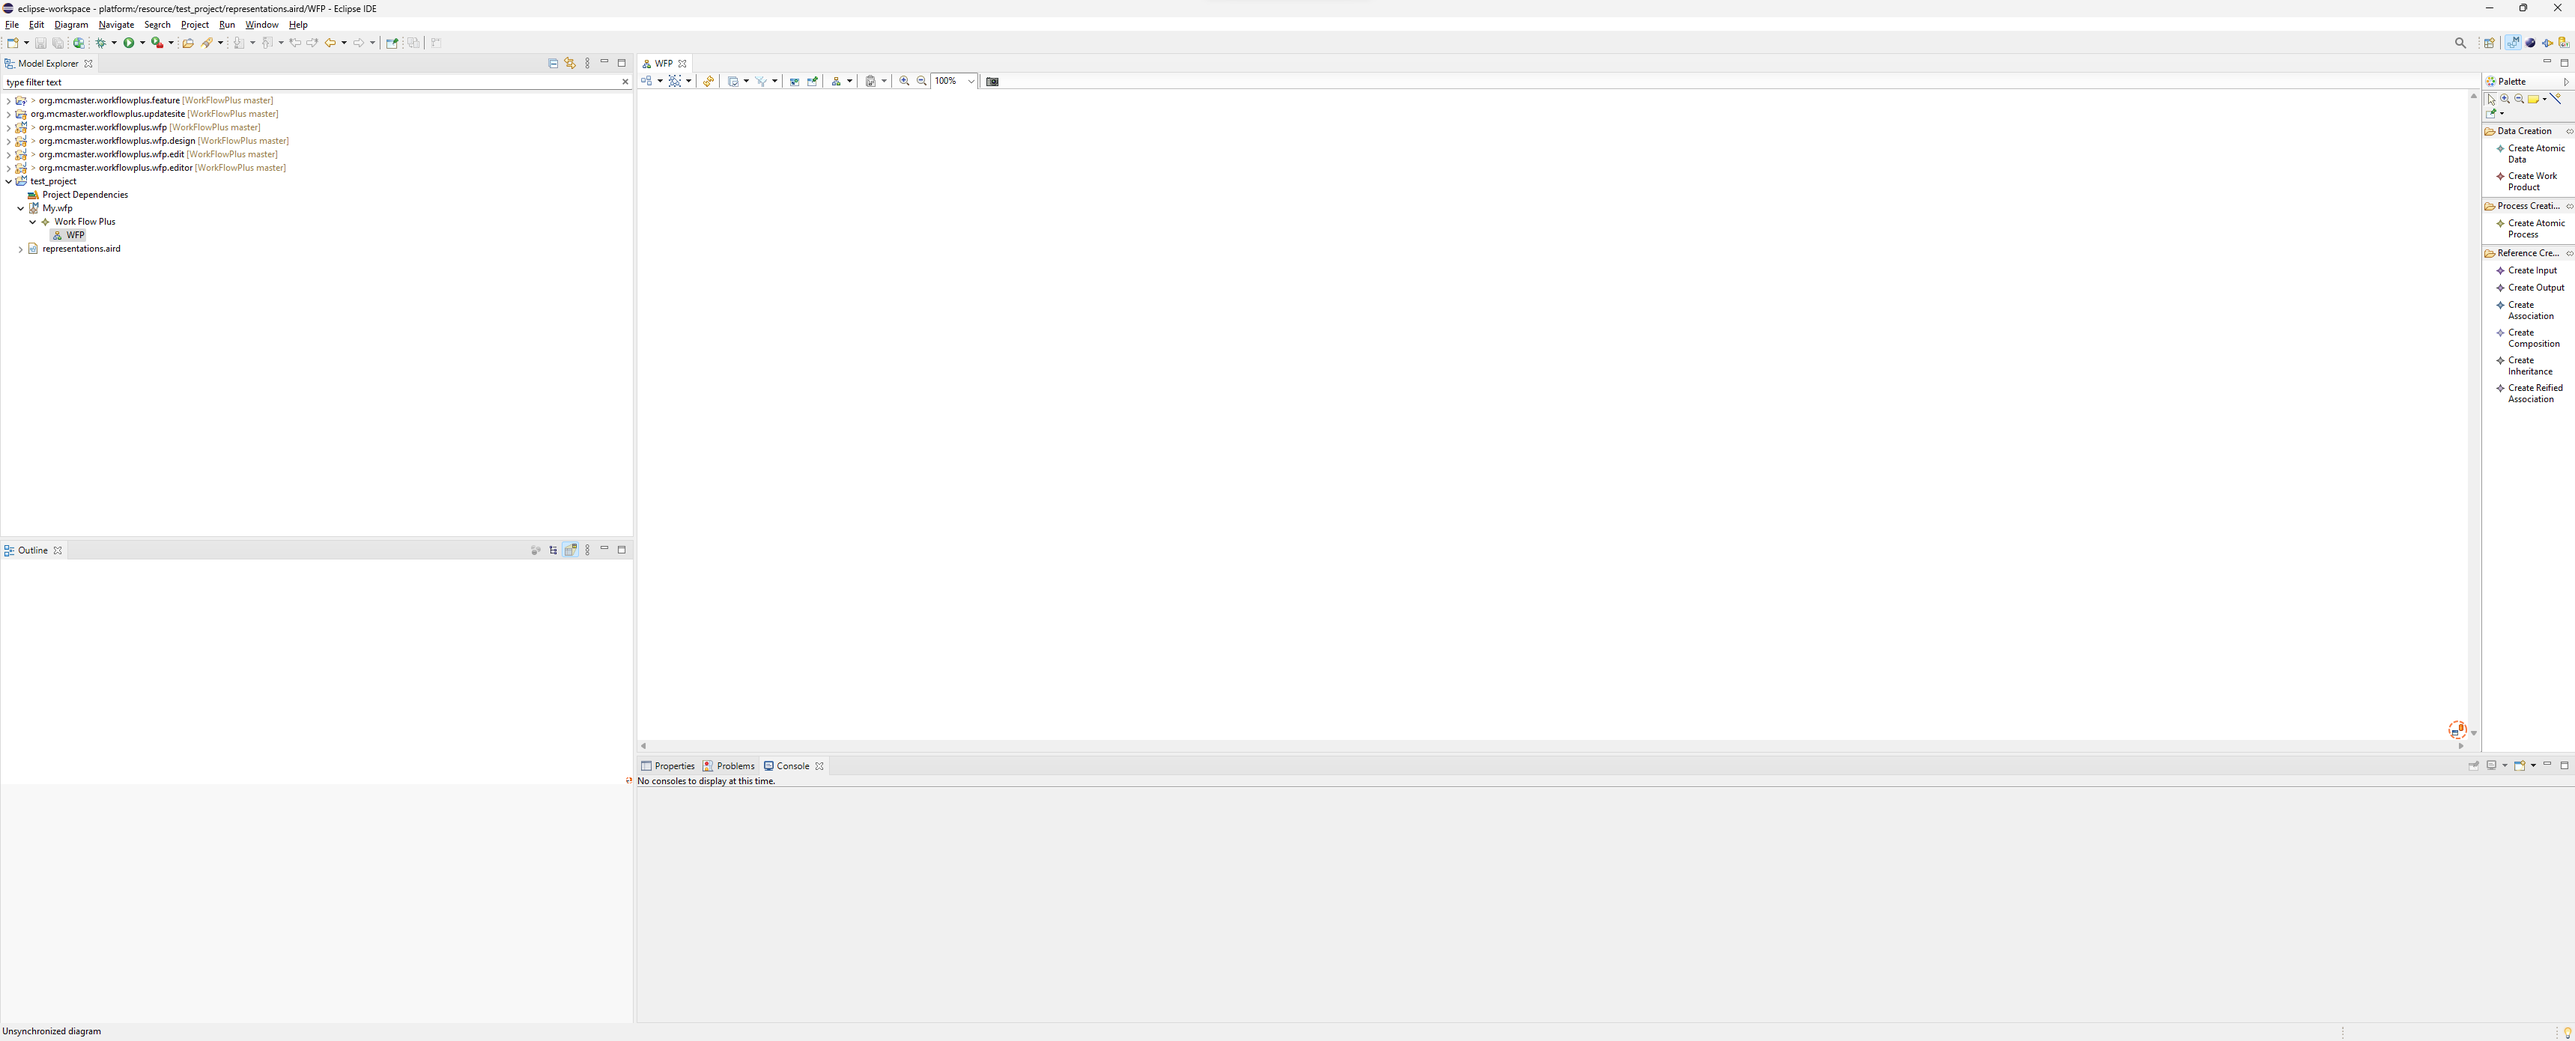
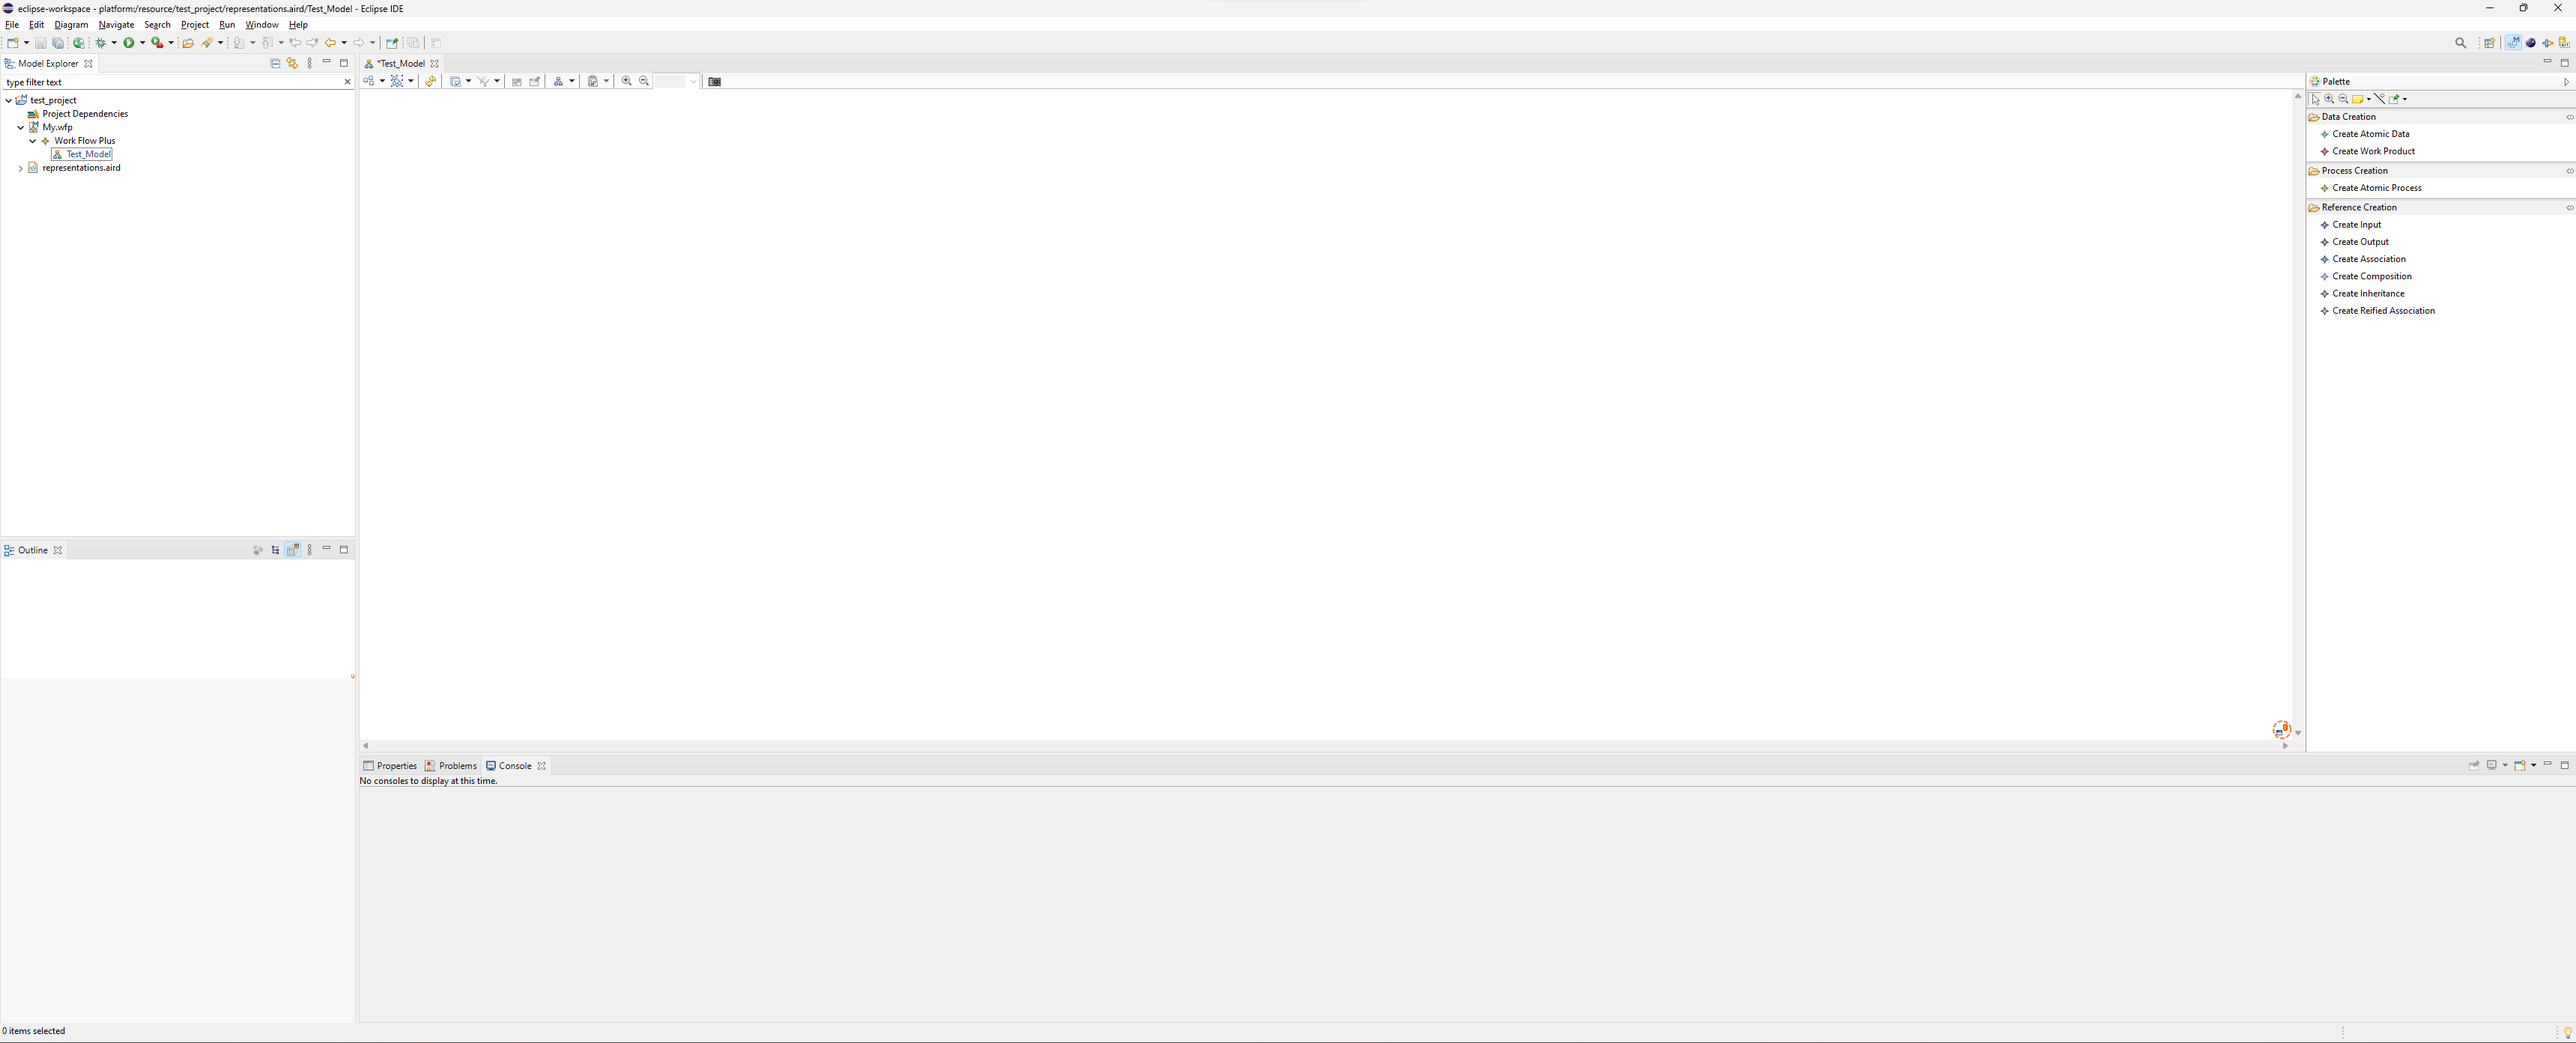
Added pictures to demonstrate functionality of the tool as well as descriptions of how to complete each step in the README. This includes creating elements in a model, creating constraints and argumentation, as well as the properties of model elements.

diff --git a/README.md b/README.md
@@ -18,9 +18,51 @@ Now create a new eclipse runtime application using the default settings. Once th
 
 WFP is a domain specific modeling language for the purpose of domain workflows and/or standards to then extract an assurance case on a product. The main goal is to provide direct traceability fron an assurance case to the processes and data that make up the argumentation for the claims and the decomposition, and the evidence that comes from the data that is produced. This allows for assurance cases to be generated with a clear strucutre and decomposition that comes directly from the standards that guide the development and the workflows that implement the standards.
 
-## How to use WFP (Version 1.0.0)?
+## How to use WFP (Version 1.0.0)
 
 As previously stated, WFP is mainly used to define engineering standards (safety, security etc...) for critical systems as general workflows. For this version we have a tool that allows users to define these workflows in a model based environment. We also have syntax for allowing the definition of constraints on these workflows. When the constraints are defined, we can then build arguments that use the constraints as evidence or proof that an argument is true about a system that is developed using the defined workflow.
 
 Upon starting a new model this is what it looks like:
-![test](https://github.com/t-chiang/WorkFlowPlus/blob/master/Documentation/Starting_new_model.png)
+![Starting a model](https://github.com/t-chiang/WorkFlowPlus/blob/master/Documentation/Starting_new_model.png)
+
+On the left side is the project explorer that shows you all of the projects that you have open in your eclipse workspace. In the center is the canvas where you will start creating your model. On the right is the palette that contains all of the model elements available to you for creating a WFP model.
+
+![Palette](https://github.com/t-chiang/WorkFlowPlus/blob/master/Documentation/Palette_elements.png)
+
+Building a model is fairly straight forward, select the element you want to create in the model, then click anywhere in the canvas to drop it. Note that you cannot create references without anything to reference to! Therefore the typical start point is to create some nodes first. Nodes refer to the 'Process' and 'Data' elements available in the palette. Currently you have 3 elements to choose from; Atomic Data, Work Product, Atomic Process. As the name implies, Atomic Data and Atomic Process are invidual elements that are limited in the information that they can contain. Let's start by creating 2 Atomic Data nodes and 1 Atomic Process node. After you drop them in the canvas you can select the 'Create Input' element from the 'Reference Creation' section of the palette. This will allow you to define an input relationship between two nodes. Inputs can only be defined from Data elements to Process elements. The same process is used to create output relationships using the 'Create Output' element. These can only be defined from Process elements to Data elements. After you create all of these elements and move them around, you can make it look something like this:
+
+![First Model](https://github.com/t-chiang/WorkFlowPlus/blob/master/Documentation/First_model.png)
+
+Congratualtions, you have created your first workflow in WFP! For the rest of the reference elements that are available in the palette, they follow the same conventions that are defined in UML. WFP is effectively a UML profile which allows us to leverage already defined syntax and semantics that exist in UML. This also means that we might get similar drawbacks from that notation, but that is something that will continue to be adresses as development for this tool continues.
+
+## How to build arguments in WFP
+
+As previously claimed, the main purpose of WFP is to provide clear repeatable structure to the generation of assurance cases through the definition of standards in a model based environment. This is achieved through the use of constraints and arguments. To activate constraints and arguments for the model, you first have to activate the layer for it. On the top of the canvas window there are several icons that exist. We will refer to these as the canvas toolbar.
+
+![Canvas Toolbar](https://github.com/t-chiang/WorkFlowPlus/blob/master/Documentation/Canvas_toolbar.png)
+
+In order to activate the 'Constraint Argument Layer' you have to select on the layer icon, circled in red, and then select the layer that you wish to activate or deactivate. The activated layers are denoted by the checkmarks on the left of the layer title.
+
+![Activating Layers](https://github.com/t-chiang/WorkFlowPlus/blob/master/Documentation/Activating_layers.png)
+
+After a layer is activated, the palette on the right will update with whatever new elements are now available to be added to the model.
+
+![Updated Palette](https://github.com/t-chiang/WorkFlowPlus/blob/master/Documentation/Updated_palette.png)
+
+Now we can begin to add constraints and arguments to our model. Adding constraints and arguments to our model follows the exact same procedure as adding a node to the model. The references that can be added that are specific to constraints and arguments are also named in the order of source node to target node. That is the first element in the name is the source and the second element in the name is the target.
+
+A simple strucutre for constraints and argumentation could be as follows:
+
+![Constraints and Arguments](https://github.com/t-chiang/WorkFlowPlus/blob/master/Documentation/Constraints_Arguments.png)
+
+The constraints and arguments that are pink in color are syntactic properties of the model while the ones in red are semantic properties of the model. The aim of the syntactic ones are to allow the editor/compiler be able to identify them automatically so that the user doesn't need to evaluate the syntactic qualities of a model, while the semantic ones would need human intervention to judge the semantic quality of the mode.
+
+We can see from how the constraints and arguments are shaped in the example that we follow a similar design pattern to GSN when it comes to assurance case development, but it is much more clear where the evidence comes from and how the argumentation hierarchy can be formed.
+
+## More details about the elements.
+
+Each element that exists in the model has specific properties. These properties list all the information about the element that is selected. These are also found in the properties tab at the bottom of the Eclipse window that contains the project. Currently all of the properties that contain significant information to the user can be found in the 'Semantic' sub-tab under 'Properties'.
+
+![Properties](https://github.com/t-chiang/WorkFlowPlus/blob/master/Documentation/Properties.png)
+
+It is also in this section that we are able to define for our constraints and arguments whether they are semantic or syntactic based on the boolean property that is show in this tab.
